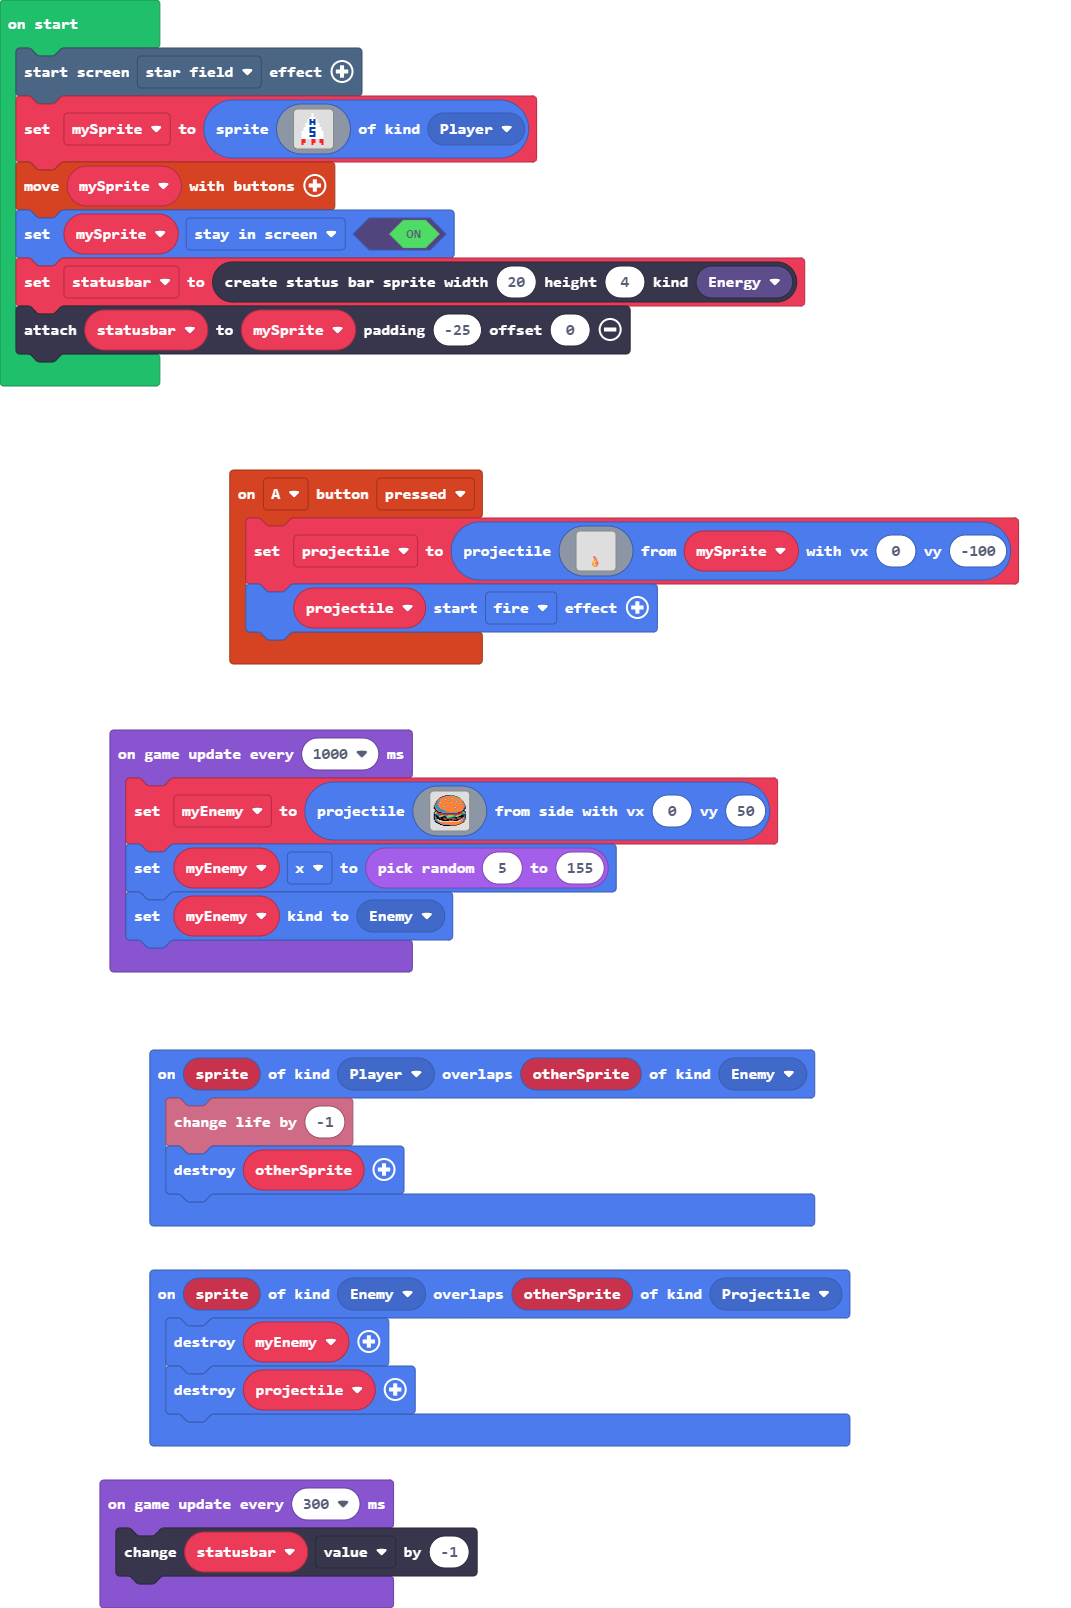
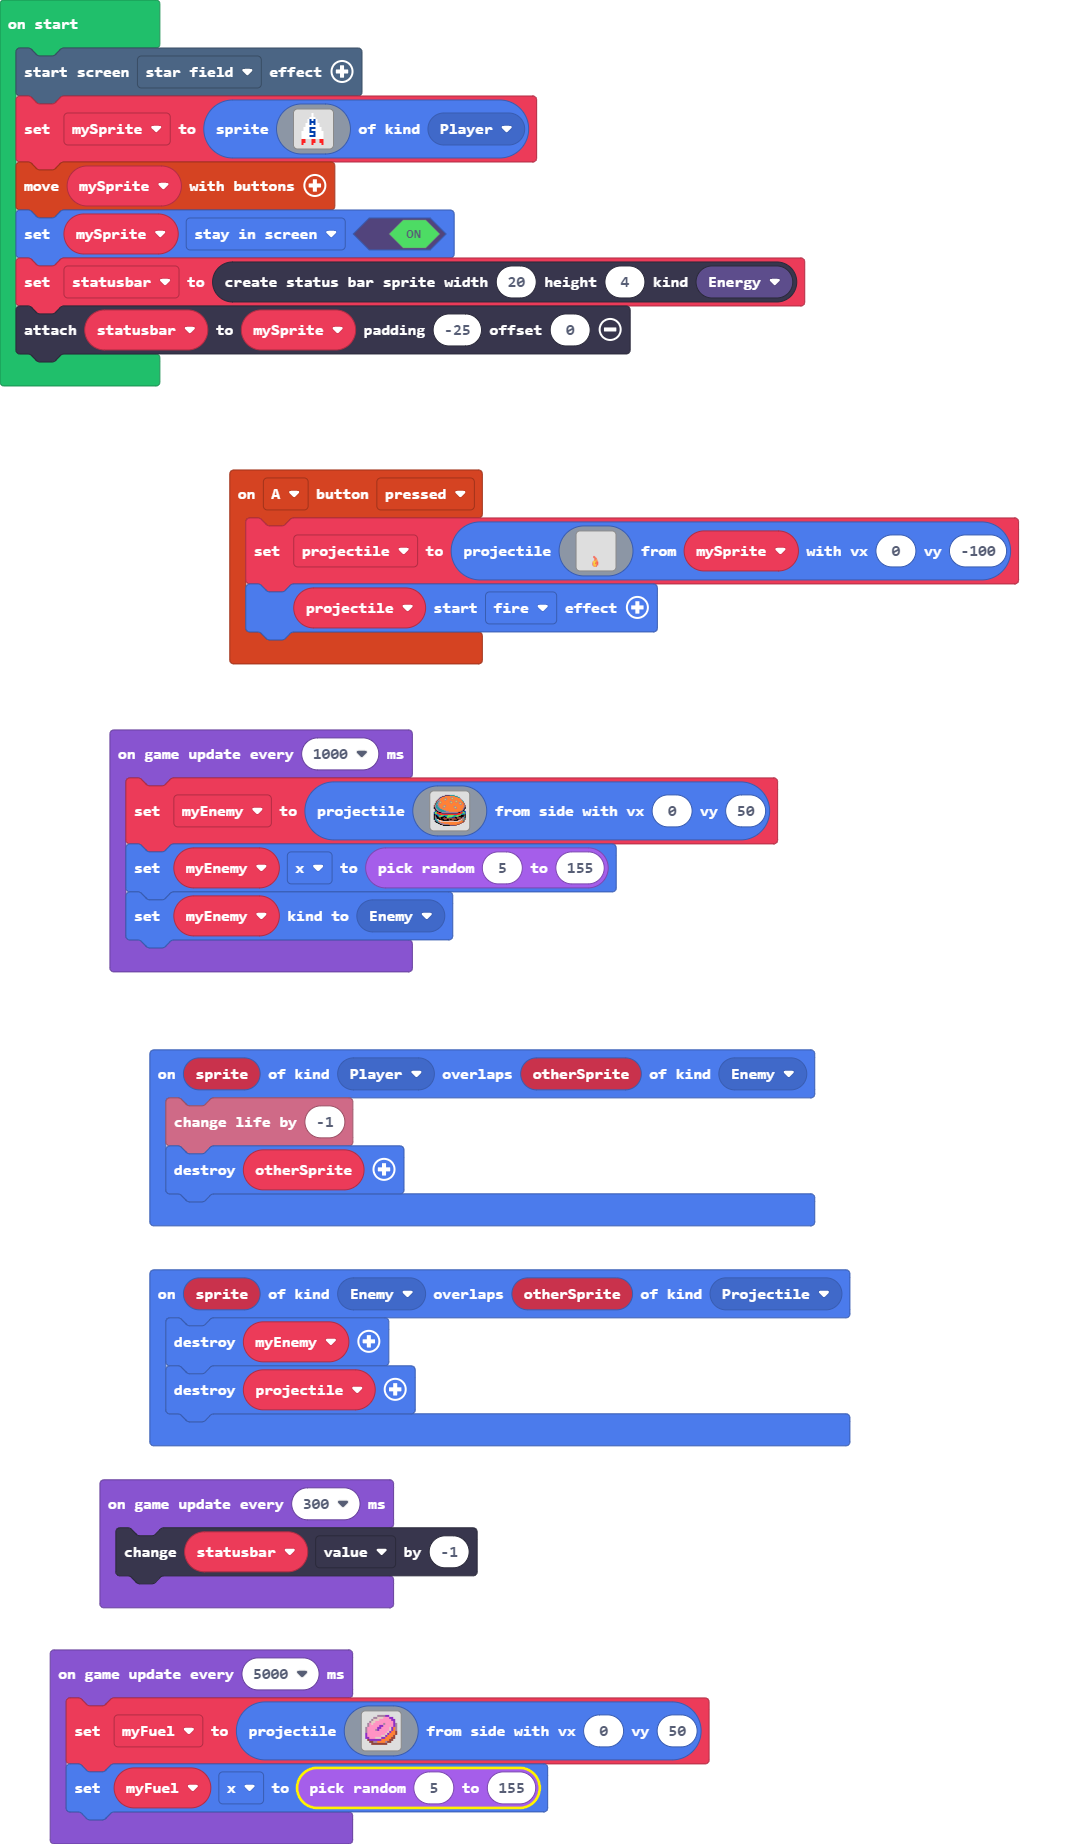
fuel now appears in different locations

diff --git a/main.ts b/main.ts
@@ -59,6 +59,7 @@ sprites.onOverlap(SpriteKind.Player, SpriteKind.Enemy, function (sprite, otherSp
     info.changeLifeBy(-1)
     otherSprite.destroy()
 })
+let myFuel: Sprite = null
 let myEnemy: Sprite = null
 let projectile: Sprite = null
 let mySprite: Sprite = null
@@ -85,6 +86,27 @@ controller.moveSprite(mySprite)
 mySprite.setFlag(SpriteFlag.StayInScreen, true)
 let statusbar = statusbars.create(20, 4, StatusBarKind.Energy)
 statusbar.attachToSprite(mySprite, -25, 0)
+game.onUpdateInterval(5000, function () {
+    myFuel = sprites.createProjectileFromSide(img`
+        . . . . . . b b b b a a . . . . 
+        . . . . b b d d d 3 3 3 a a . . 
+        . . . b d d d 3 3 3 3 3 3 a a . 
+        . . b d d 3 3 3 3 3 3 3 3 3 a . 
+        . b 3 d 3 3 3 3 3 b 3 3 3 3 a b 
+        . b 3 3 3 3 3 a a 3 3 3 3 3 a b 
+        b 3 3 3 3 3 a a 3 3 3 3 d a 4 b 
+        b 3 3 3 3 b a 3 3 3 3 3 d a 4 b 
+        b 3 3 3 3 3 3 3 3 3 3 d a 4 4 e 
+        a 3 3 3 3 3 3 3 3 3 d a 4 4 4 e 
+        a 3 3 3 3 3 3 3 d d a 4 4 4 e . 
+        a a 3 3 3 d d d a a 4 4 4 e e . 
+        . e a a a a a a 4 4 4 4 e e . . 
+        . . e e b b 4 4 4 4 b e e . . . 
+        . . . e e e e e e e e . . . . . 
+        . . . . . . . . . . . . . . . . 
+        `, 0, 50)
+    myFuel.x = randint(5, 155)
+})
 game.onUpdateInterval(1000, function () {
     myEnemy = sprites.createProjectileFromSide(img`
         ...........ccccc66666...........

diff --git a/images.g.ts b/images.g.ts
@@ -105,6 +105,24 @@ f66ddfffffeeeffeffeeeeeffeedb46e
 . . 2 2 . . . 2 2 . . 2 2 . . . 
 . . 2 . . . . 2 . . . . 2 . . . 
 `;
+            case "image4":return img`
+. . . . . . b b b b a a . . . . 
+. . . . b b d d d 3 3 3 a a . . 
+. . . b d d d 3 3 3 3 3 3 a a . 
+. . b d d 3 3 3 3 3 3 3 3 3 a . 
+. b 3 d 3 3 3 3 3 b 3 3 3 3 a b 
+. b 3 3 3 3 3 a a 3 3 3 3 3 a b 
+b 3 3 3 3 3 a a 3 3 3 3 d a 4 b 
+b 3 3 3 3 b a 3 3 3 3 3 d a 4 b 
+b 3 3 3 3 3 3 3 3 3 3 d a 4 4 e 
+a 3 3 3 3 3 3 3 3 3 d a 4 4 4 e 
+a 3 3 3 3 3 3 3 d d a 4 4 4 e . 
+a a 3 3 3 d d d a a 4 4 4 e e . 
+. e a a a a a a 4 4 4 4 e e . . 
+. . e e b b 4 4 4 4 b e e . . . 
+. . . e e e e e e e e . . . . . 
+. . . . . . . . . . . . . . . . 
+`;
         }
         return null;
     })
